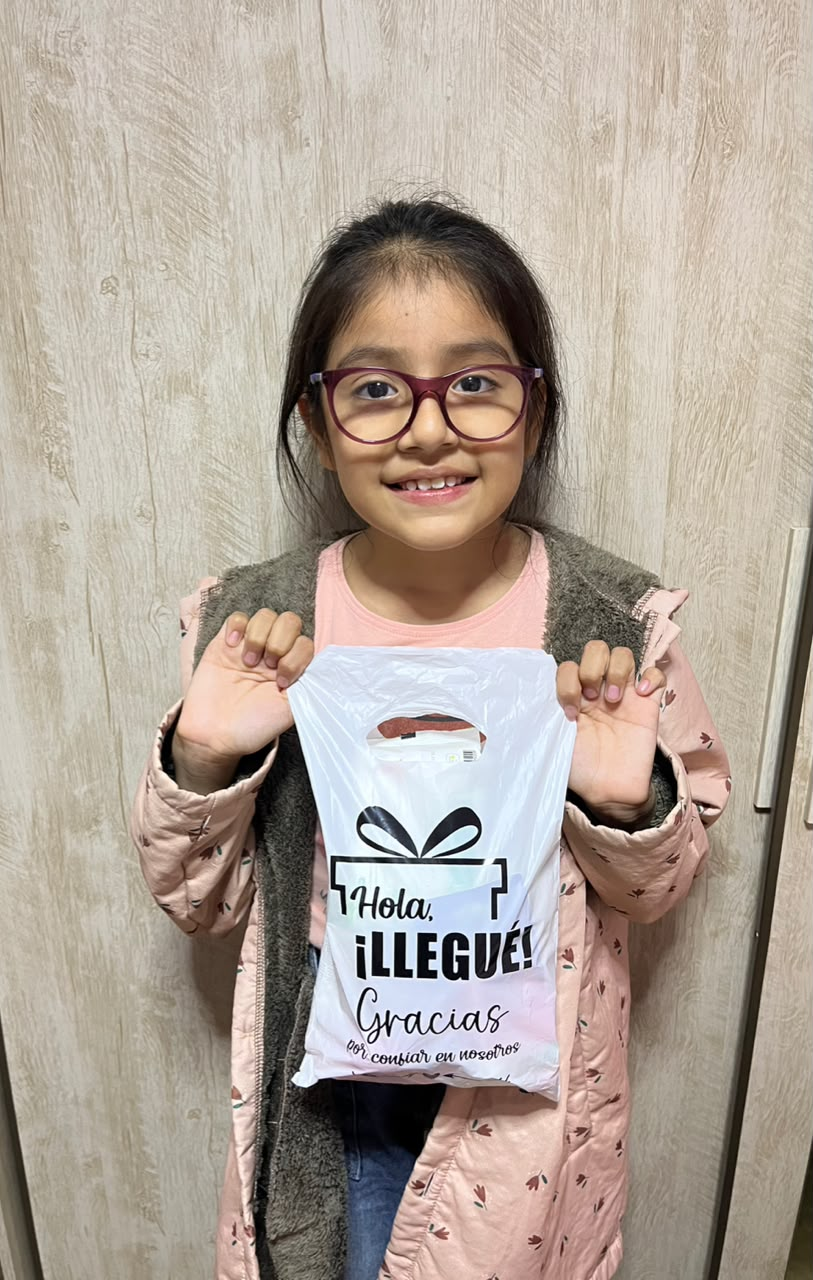
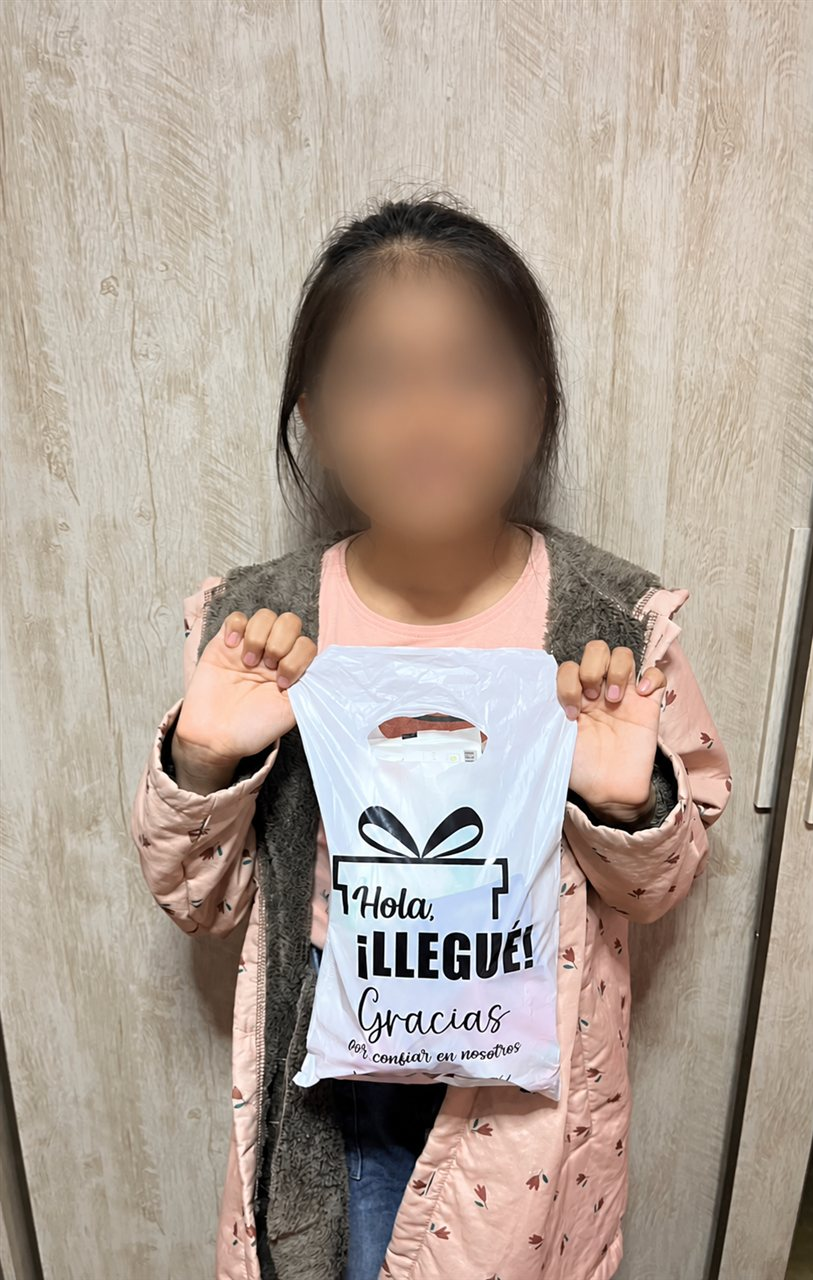
Blur faces in latest delivery photos

diff --git a/index.html b/index.html
@@ -629,29 +629,29 @@
 
     <div class="entregas-galeria" id="entregasGaleria" aria-label="Entregas reales de Aitana Make Up">
       <figure class="entrega-tarjeta">
-        <button class="entrega-foto" type="button" data-entrega-imagen="img/entregas-05.jpeg" aria-label="Ampliar entrega del 22 de septiembre, foto 1">
-          <img src="img/entregas-05.jpeg" alt="Clienta mostrando su pedido de Aitana Make Up" width="841" height="1280" loading="lazy" decoding="async">
+        <button class="entrega-foto" type="button" data-entrega-imagen="img/entregas-05.jpeg?v=rostro-difuminado" aria-label="Ampliar entrega del 22 de septiembre, foto 1">
+          <img src="img/entregas-05.jpeg?v=rostro-difuminado" alt="Clienta mostrando su pedido de Aitana Make Up" width="841" height="1280" loading="lazy" decoding="async">
           <span class="entrega-badge">✓ ENTREGA REAL</span>
         </button>
       </figure>
 
       <figure class="entrega-tarjeta">
-        <button class="entrega-foto" type="button" data-entrega-imagen="img/entregas-06.jpeg" aria-label="Ampliar entrega del 22 de septiembre, foto 2">
-          <img src="img/entregas-06.jpeg" alt="Entrega de dos bolsas de pedidos de Aitana Make Up" width="763" height="1280" loading="lazy" decoding="async">
+        <button class="entrega-foto" type="button" data-entrega-imagen="img/entregas-06.jpeg?v=rostro-difuminado" aria-label="Ampliar entrega del 22 de septiembre, foto 2">
+          <img src="img/entregas-06.jpeg?v=rostro-difuminado" alt="Entrega de dos bolsas de pedidos de Aitana Make Up" width="763" height="1280" loading="lazy" decoding="async">
           <span class="entrega-badge">✓ ENTREGA REAL</span>
         </button>
       </figure>
 
       <figure class="entrega-tarjeta">
-        <button class="entrega-foto" type="button" data-entrega-imagen="img/entregas-07.jpeg" aria-label="Ampliar entrega del 22 de septiembre, foto 3">
-          <img src="img/entregas-07.jpeg" alt="Entrega de un pedido en bolsa de Aitana Make Up" width="813" height="1280" loading="lazy" decoding="async">
+        <button class="entrega-foto" type="button" data-entrega-imagen="img/entregas-07.jpeg?v=rostro-difuminado" aria-label="Ampliar entrega del 22 de septiembre, foto 3">
+          <img src="img/entregas-07.jpeg?v=rostro-difuminado" alt="Entrega de un pedido en bolsa de Aitana Make Up" width="813" height="1280" loading="lazy" decoding="async">
           <span class="entrega-badge">✓ ENTREGA REAL</span>
         </button>
       </figure>
 
       <figure class="entrega-tarjeta">
-        <button class="entrega-foto" type="button" data-entrega-imagen="img/entregas-08.jpeg" aria-label="Ampliar entrega del 22 de septiembre, foto 4">
-          <img src="img/entregas-08.jpeg" alt="Clienta con su compra entregada de Aitana Make Up" width="760" height="1280" loading="lazy" decoding="async">
+        <button class="entrega-foto" type="button" data-entrega-imagen="img/entregas-08.jpeg?v=rostro-difuminado" aria-label="Ampliar entrega del 22 de septiembre, foto 4">
+          <img src="img/entregas-08.jpeg?v=rostro-difuminado" alt="Clienta con su compra entregada de Aitana Make Up" width="760" height="1280" loading="lazy" decoding="async">
           <span class="entrega-badge">✓ ENTREGA REAL</span>
         </button>
       </figure>

diff --git a/service-worker.js b/service-worker.js
@@ -1,4 +1,4 @@
-const CACHE_VERSION = "aitana-pwa-v21";
+const CACHE_VERSION = "aitana-pwa-v22";
 const STATIC_CACHE = `${CACHE_VERSION}-static`;
 const NETWORK_CACHE = `${CACHE_VERSION}-network`;
 
